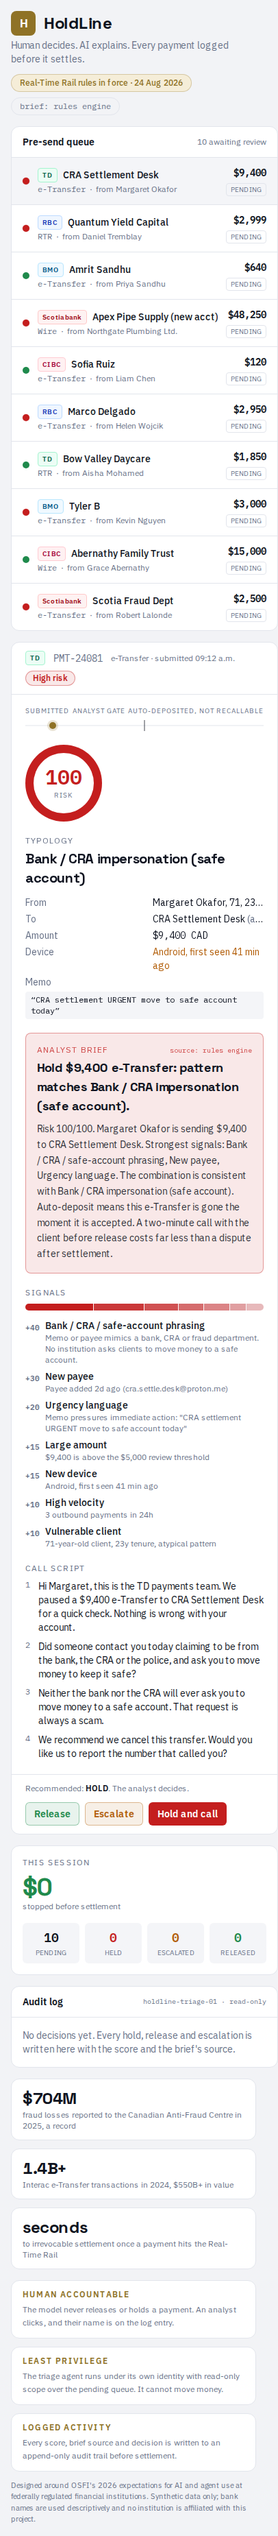
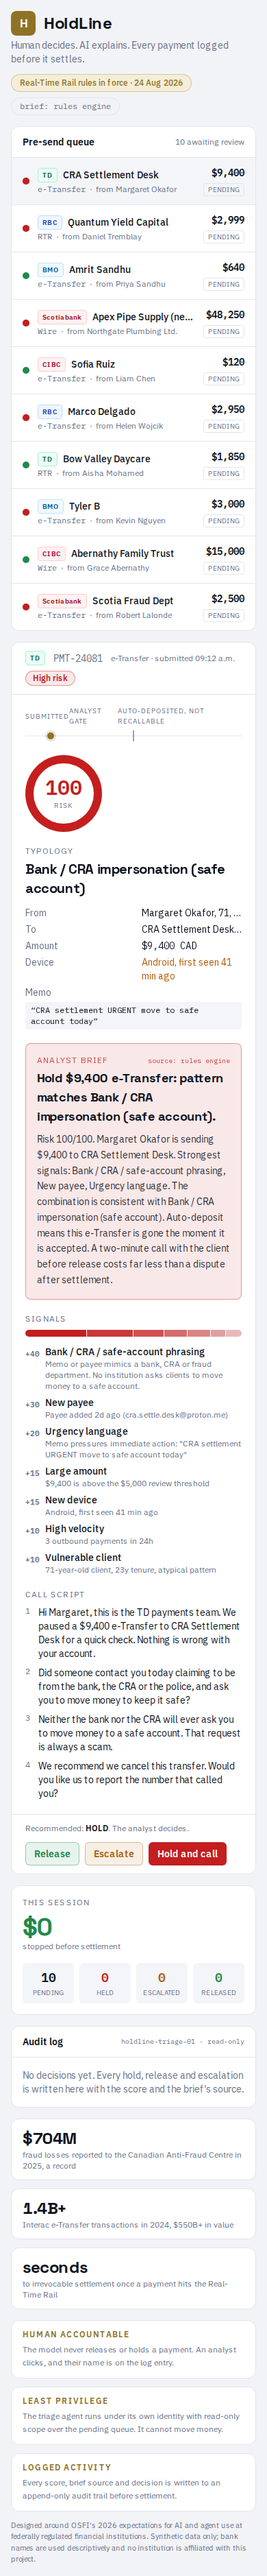
fix: queue column no longer overflows narrow viewports

diff --git a/src/app/page.tsx b/src/app/page.tsx
@@ -99,14 +99,14 @@ export default function Home() {
         </div>
       </header>
 
-      <div className="grid flex-1 gap-4 lg:grid-cols-[340px_minmax(0,1fr)_300px]">
-        <div className="min-h-[420px] lg:h-[calc(100vh-230px)]">
+      <div className="grid flex-1 grid-cols-[minmax(0,1fr)] gap-4 lg:grid-cols-[340px_minmax(0,1fr)_300px]">
+        <div className="min-h-[420px] min-w-0 lg:h-[calc(100vh-230px)]">
           <PaymentQueue payments={payments} scores={verdicts} selectedId={selected.id} onSelect={setSelectedId} />
         </div>
-        <div className="min-h-[560px] lg:h-[calc(100vh-230px)]">
+        <div className="min-h-[560px] min-w-0 lg:h-[calc(100vh-230px)]">
           <VerdictCard payment={selected} verdict={verdict} loadingBrief={loading === selected.id} onDecide={decide} />
         </div>
-        <div className="flex flex-col gap-4 lg:h-[calc(100vh-230px)]">
+        <div className="flex min-w-0 flex-col gap-4 lg:h-[calc(100vh-230px)]">
           <MetricsStrip payments={payments} />
           <AuditLog entries={log} />
         </div>

diff --git a/src/components/payment-queue.tsx b/src/components/payment-queue.tsx
@@ -40,7 +40,7 @@ export function PaymentQueue({ payments, scores, selectedId, onSelect }: Props) 
                 <div className="min-w-0 flex-1">
                   <div className="flex items-center gap-2">
                     <BankChip bank={p.bank} />
-                    <span className="truncate text-sm font-medium">{p.payee.name}</span>
+                    <span className="min-w-0 truncate text-sm font-medium">{p.payee.name}</span>
                   </div>
                   <div className="mt-0.5 truncate text-xs text-muted">
                     <span className="font-mono">{p.channel}</span>
